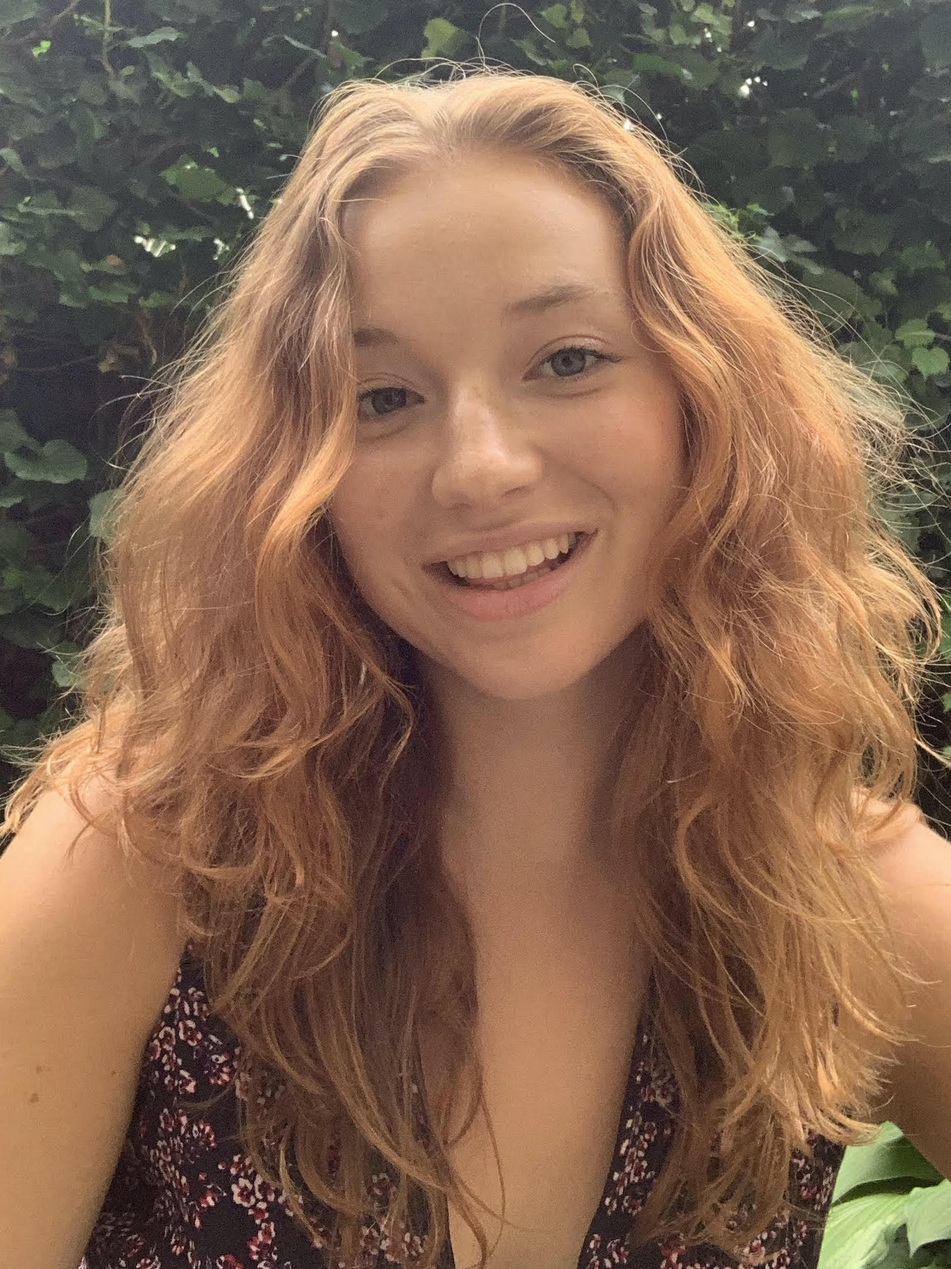
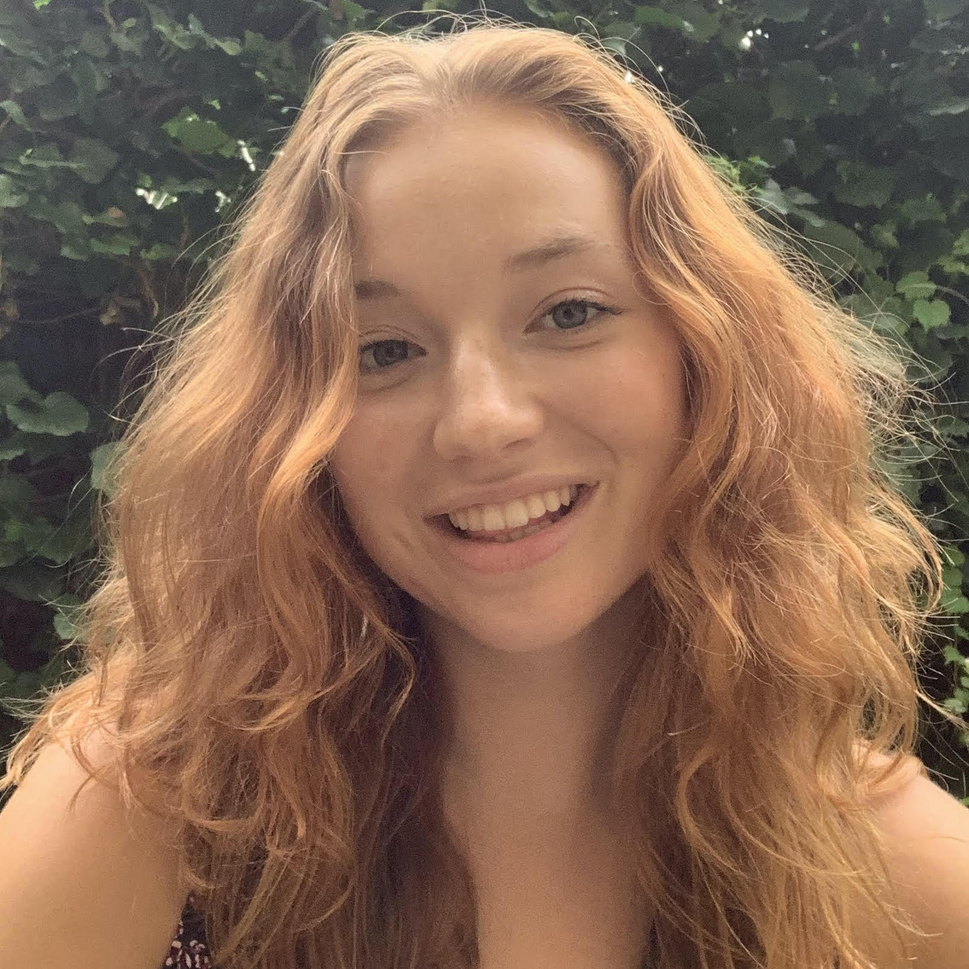
Homepage Changes

diff --git a/CSS/style.css b/CSS/style.css
@@ -1,22 +1,47 @@
 .inline-block{
     display:inline-block;
     vertical-align:top;
+    text-decoration: none;
+    font-family: "Inter", sans-serif;
 }
 
-.logo{
-width: 23%;
-padding: 1%;
-text-align: center;
+#logo{
+    height: 100px;
+    text-align: center;
+    float: left;
 }
 
-nav{
-    width:73%;
-    padding: 1%;
-}
+.nav{
+    width:100%;
+    padding: 0%;
+    display: flex;
+	}
+
+    
+	.header {
+		flex-direction: row;
+		justify-content: left;
+		width: 80%;
+		margin: 0 auto;
+		max-width: 1150px;
+	}
+
+li {
+    float: right;
+    display: block;
+    color: black;
+    text-align: center;
+    padding: 16px;
+    text-decoration: none;
+  }
 
 ul{
-    width: 50%;
+    width: 100%;
     margin-left: auto;
+    list-style-type: none;
+    margin: 0;
+    padding: 0;
+    overflow: hidden;
 }
 
 .heroImg{
@@ -25,13 +50,138 @@ ul{
 }
 
 #profile{ 
-    height: 80px;
+    height: 300px;
+    border-radius: 50%;
+    display: flex;
+    justify-content: center;
+    margin: 0 auto;
 }
+
 .content{
     width: 500 px;
-    margin: 0-auto;
+    margin: 16px;
+      }
+
+p{
+    display: flex;
+    flex-direction: column;
+    margin: 50px 500px;
+    width: 576px;
+    height: 230px;
+    left: 762px;
+    top: 395px;
+    
+    font-family: Inter;
+    font-style: normal;
+    font-weight: 300;
+    font-size: 18px;
+    line-height: 150%;
+    color: #000000;
+  }
+
+button {
+
+    /* Property 1=Default */
+
+        display: flex;
+        flex-direction: column;
+        justify-content: center;
+ 
+        width: 156px;
+        height: 46px;
+        left: 20px;
+        top: 20px;
+
+        /* Auto Layout */
+        display: flex;
+        flex-direction: row;
+        justify-content: center;
+        align-items: center;
+        padding: 12px 24px;
+        border-radius: 5px;
+
+        font-family: Inter;
+        font-style: normal;
+        font-weight: 500;
+        font-size: 18px;
+        line-height: 22px;
+
+        /* identical to box height */
+        display: flex;
+        align-items: center;
+        text-align: center;
+
+        color: #000000;
+}
+
+.container{
+display:flex;
+justify-content: center;
+}
+
+button:hover {
+    /* Property 1=Hover */
+
+    /* Auto Layout */
+    display: flex;
+    flex-direction: row;
+    justify-content: center;
+    padding: 0px;
+
+    width: 156px;
+    height: 46px;
+    left: 20px;
+    top: 98px;
+
+    border: 1px solid #896E8B;
+    border-radius: 5px;
+
+
+    /* Auto Layout */
+    display: flex;
+    flex-direction: column;
+    justify-content: center;
+    align-items: center;
+    padding: 12px 24px;
+
+    left: 0%;
+    right: 0%;
+    top: 0%;
+    bottom: 0%;
+
+    background: #FFFFFF;
+    border-radius: 5px;
+
+    /* LABEL */
+
+    left: 24px;
+    right: 24px;
+    top: 26.09%;
+    bottom: 26.09%;
+
+    font-family: Inter;
+    font-style: normal;
+    font-weight: 500;
+    font-size: 18px;
+    line-height: 22px;
+    /* identical to box height */
+    display: flex;
+    align-items: center;
+    text-align: center;
+
+    color: #000000;
+
+
+    /* Inside Auto Layout */
+    flex: none;
+    order: 0;
+    flex-grow: 0;
+    margin: 0px 0px;
+
 }
 
 footer{
     background-color: #373738;
+    width: 100%;
+    color: white;
 }

diff --git a/index.html b/index.html
@@ -1,37 +1,33 @@
 <!DOCTYPE html>
 <html>
     <head>
-        <title>Document</title>
+        <title>Katya Hassett</title>
         <link rel="stylesheet" href="./CSS/style.css"
     </head>
     <body>
-        <header class="navigation">
-            <div class="logo inline-block">
-                <img src="./images/Logo.png" alt="Katya H. Logo">
-            </div>  
-            
-            <nav class="inline-block">
-                <ul>
-                    <li>About</li>
-                    <li>Skills</li>
-                    <li>Work</li>
-                    <li>Contact</li>
+        
+            <header class="nav inline-block">
+                <img id ="logo" src="./images/Logo.png" alt="Katya H. Logo">
+              <ul class="main-nav">
+                  <li><a href="#">About</a></li>
+                  <li><a href="#">Skills</a></li>
+                  <li><a href="#">Work</a></li>
+                  <li><a href="#">Contact</a></li>
+              </ul>
+            </header> 
                 </ul>
-            </nav>
-        </header>
 
         <section class="heroImg">
             <div class="content">
                 <img id="profile" src="images/Profile.jpeg" alt="Profile Picture">
-                <p>I am a freelance UX/UI Designer inspired to make life life easier with innovative design.
-
+                <p class="inline-block">I am a freelance UX/UI Designer inspired to make life life easier with innovative design.<br/><br/>
                     I continue to explore design skills every day. I synthesize user research to find key features for a user-centered solution. I work on teams to develop user flows, create wireframes, organize insights into affinity diagrams, and develop prototypes from low to high fidelity. 
                 </p>
-                <button>Download Resume</button>
+                <button class=container>Download Resume</button>
             </div>
         </section>
 
-        <footer class="heroImg">
+        <footer class="heroImg inline-block">
             <ul>
                 <li>About</li>
                 <li>Skills</li>
